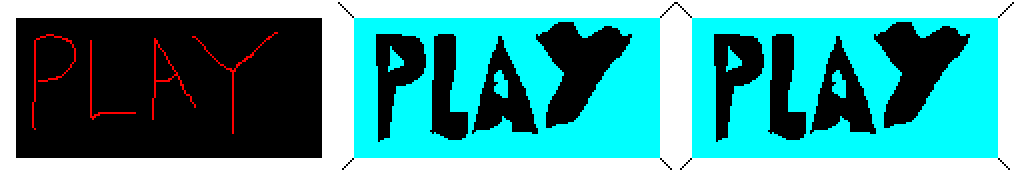
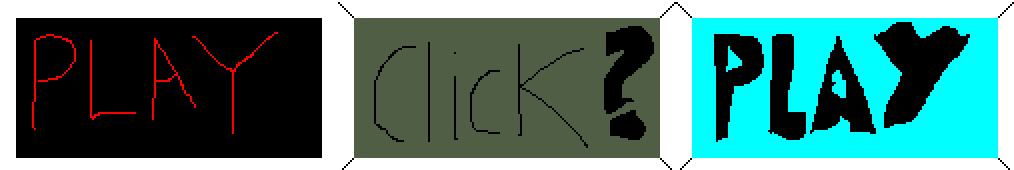
hover play button working

Changed region(s): [[0.3363, 0.0882, 0.6726, 0.9412]]

diff --git a/src/js/states/preloader.js b/src/js/states/preloader.js
@@ -17,7 +17,7 @@ Preloader.prototype = {
     this.load.image('logo', 'assets/TeamSkeltal.gif');
     this.load.image('menulogo', 'assets/gamelogo.png');
     this.load.image('menuback', 'assets/background-ruby.png');
-    this.load.spritesheet('menuplay', 'assets/menu/playbutton.png');
+    this.load.spritesheet('menuplay', 'assets/menu/playbutton.png', 338, 170);
     this.load.image('menusettings', 'assets/menu/button_un_s.png');
     this.load.image('menucredits', 'assets/menu/button_un_c.png');
     this.load.image('menuplayhov', 'assets/menu/button_press.png');

diff --git a/src/js/states/menu.js b/src/js/states/menu.js
@@ -15,7 +15,7 @@ Menu.prototype = {
     this.asset.scale.x = 2;
     this.asset.scale.y = 2;
 
-    play = this.add.button(564, 0, 'menuplay', listenerPlay, this, 0, 1, 2);
+    play = this.add.button(564, 0, 'menuplay', listenerPlay, this, 1, 0, 2);
     play.scale.x = 0.7;
     play.scale.y = 0.7;
 
